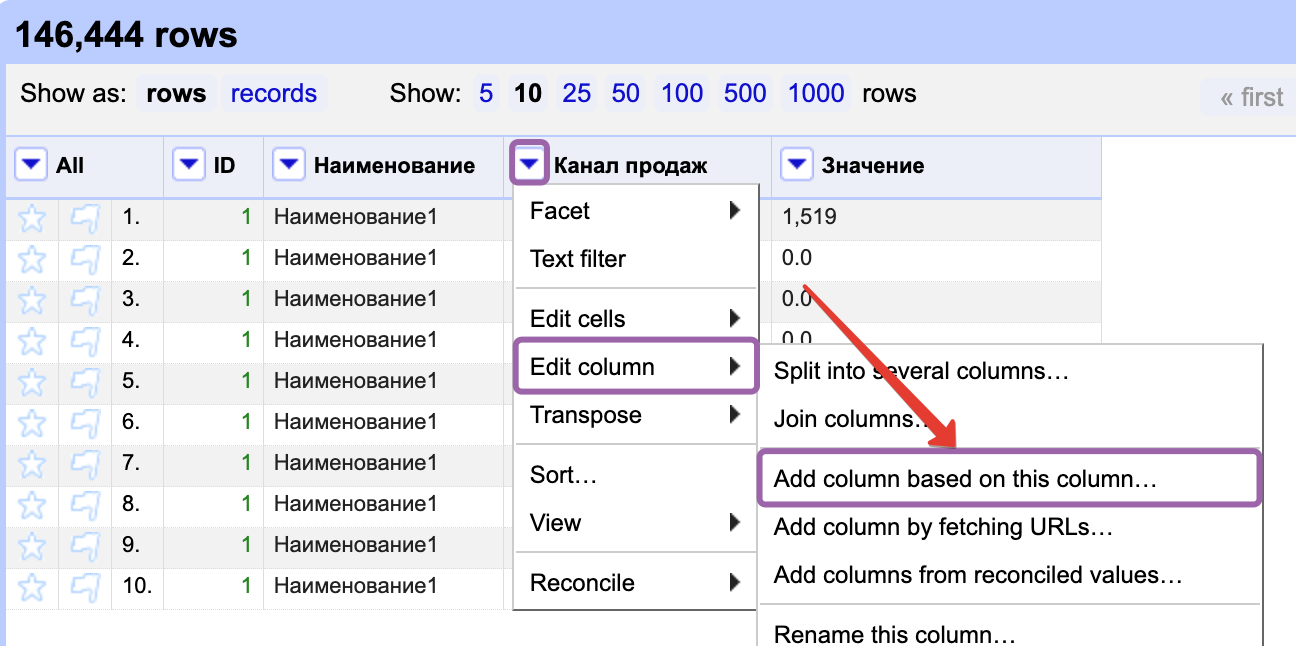
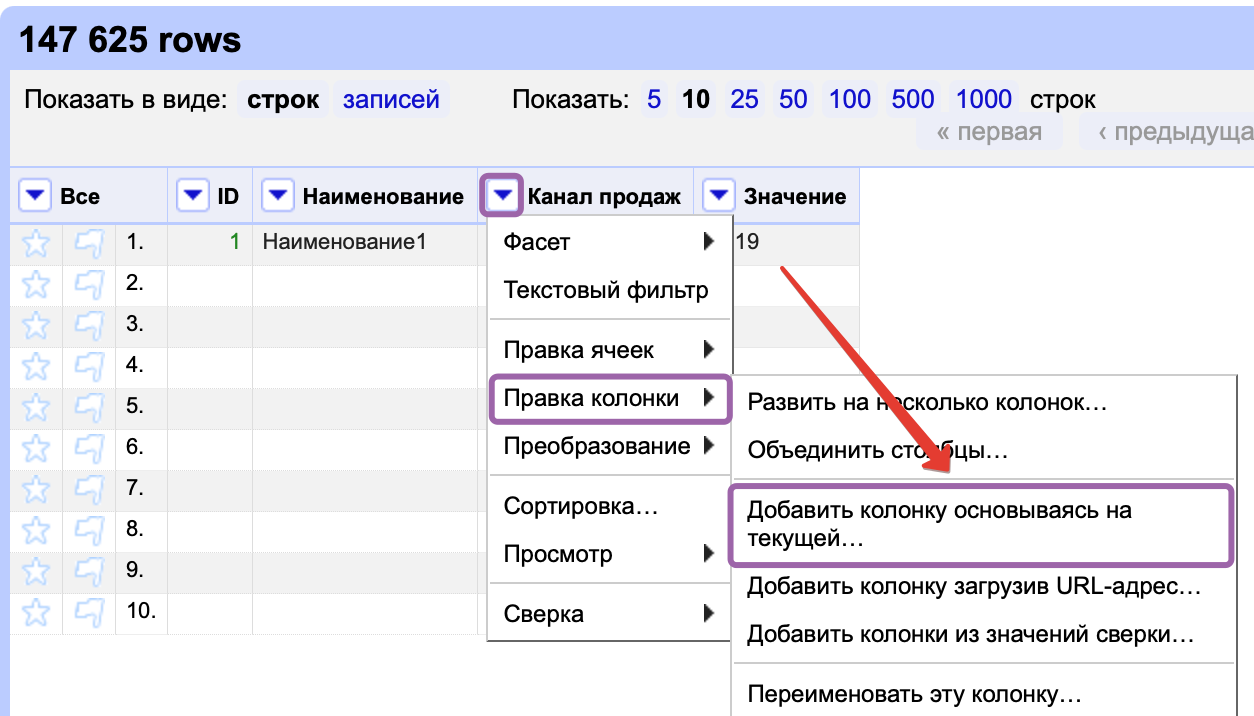
fix(excel_import): russian language

diff --git a/README.md b/README.md
@@ -78,7 +78,7 @@ curl -L -o "План продаж.xlsx" \
 
 ![img](img/id_fill_down.png)
 
-- Создаём колонку Дата на основе колонки "Канал продаж" (Edit column > Add column base on this column)
+- Создаём колонку Дата на основе колонки "Канал продаж" (Правка колонки > Добавить колонку основываясь на текущей...)
 
 ![img](img/create_date_column.png)
 
